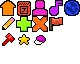
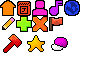
added visible badges

diff --git a/templates/base.html b/templates/base.html
@@ -20,6 +20,33 @@
 		</style>
 		
 		{% block head %}{% endblock %}
+		
+		{# global data #}
+		
+		{% 
+			set MODS = {
+				"abyssbox":     {'url': 'https://choptop84.github.io/abyssbox-app/'},
+				"beepbox":      {'url': 'https://www.beepbox.co'},
+				"cardboardbox": {'url': 'https://hidden-realm.github.io/cardboardbox/'},
+				"goldbox":      {'url': 'https://aurysystem.github.io/goldbox/'},
+				"jummbox":      {'url': 'https://jummb.us'},
+				"lemmbox":      {'url': 'https://lemmbox.github.io/'},
+				"modbox":       {'url': 'https://moddedbeepbox.github.io/3.0/'},
+				"pandorasbox":  {'url': 'https://paandorasbox.github.io/'},
+				"sandbox":      {'url': 'https://fillygroove.github.io/sandbox-3.1/'},
+				"slarmoosbox":  {'url': 'https://slarmoo.github.io/slarmoosbox/website/'},
+				"ultrabox":     {'url': 'https://ultraabox.github.io/'},
+				"wackybox":     {'url': 'https://bluecatgamer.github.io/Wackybox/'}
+			}
+		%}
+		
+		{% 
+			set BADGES = {
+				"moderator": {'name': 'Moderator', 'desc': 'a user who moderates and develops the site'},
+				"veteran":   {'name': 'Veteran',   'desc': 'a user who created an account before version 0.5'}
+			}
+		%}
+		
 	</head>
 	
 	<body>
@@ -27,7 +54,7 @@
 		<header>
 			<div class="left">
 				<h1>beepboard</h1>
-				<p>0.5.3</p>
+				<p>0.6.0</p>
 				<!--
 				<search>
 					<input type="text">

diff --git a/templates/view_user.html b/templates/view_user.html
@@ -17,9 +17,9 @@
 				<div class="desc">
 					<h2>
 						{{ user.username }}
-						{% for badge in user.badges | sort %}
-							<img class="badge {{badge}}" src="/assets/trans.png">
-						{% endfor %}
+						{% for badge in user.badges | sort %}<img class="badge {{badge}}"
+						                                          title="{{BADGES[badge].name}} ({{BADGES[badge].desc}})"
+						                                          src="/assets/trans.png">{% endfor %}
 						<br>
 						<small>{{ user.created.date }} · user #{{user.id}}</small>
 					</h2>
@@ -61,7 +61,6 @@
 							<div class="meta">
 								<p class="name">
 									<a href="/Song/{{song.id}}">{{ song.content.name }}</a>
-									<img class="" src="/assets/trans.png">
 								</p>
 								<div class="songtags">
 									{% if song.content.tags %}

diff --git a/templates/users.html b/templates/users.html
@@ -4,6 +4,7 @@
 
 {% block head %}
 	<link rel="stylesheet" href="/styles/users.css">
+	<link rel="stylesheet" href="/styles/badges.css">
 {% endblock %}
 
 {% block main %}
@@ -36,7 +37,12 @@
 			<div class="user">
 				<img class="pfp" src="{{ user.profile.pfp.url }}">
 				<div class="data">
-					<h3><a href="/User/{{ user.id }}">{{ user.username }}</a></h3>
+					<h3>
+						<a href="/User/{{ user.id }}">{{ user.username }}</a>
+						{% for badge in user.badges | sort %}<img class="badge {{badge}}"
+						                                          title="{{BADGES[badge].name}} ({{BADGES[badge].desc}})"
+						                                          src="/assets/trans.png">{% endfor %}
+					</h3>
 					<p>other info</p>
 				</div>
 				<div class="footer">

diff --git a/public/styles/badges.css b/public/styles/badges.css
@@ -1,0 +1,15 @@
+.badge {
+	width: 24px;
+	height: 24px;
+	background-color: #333;
+	transform: translateY(5px);
+	margin-top: -5px;
+}
+
+.badge.moderator {
+	background: url('/assets/icons.png') 0px -32px;
+}
+
+.badge.veteran {
+	background: url('/assets/icons.png') -48px -32px;
+}

diff --git a/app.py b/app.py
@@ -16,6 +16,7 @@ def bb_index():
 	with bb_connect_db() as conn:
 		db = conn.cursor()
 		myself = bb_filter_user(db, bb_get_userdata_by_token(db, request.cookies.get('token')))
+		trending = bb_get_trending(db)
 	return render_template("index.html", myself=myself)
 	
 @app.route('/welcome')
@@ -24,6 +25,7 @@ def bb_welcome():
 	with bb_connect_db() as conn:
 		db = conn.cursor()
 		myself = bb_filter_user(db, bb_get_userdata_by_token(db, request.cookies.get('token')))
+		trending = bb_get_trending(db)
 	return render_template("welcome.html", myself=myself)
 
 @app.route('/Songs')
@@ -61,6 +63,7 @@ def bb_list_songs():
 			query = ''
 		
 		myself = bb_filter_user(db, bb_get_userdata_by_token(db, request.cookies.get('token')))
+		trending = bb_get_trending(db)
 	
 	return render_template("songs.html",
 		myself=myself,
@@ -102,6 +105,7 @@ def bb_list_users():
 		
 		#filter users
 		myself = bb_filter_user(db, bb_get_userdata_by_token(db, request.cookies.get('token')))
+		trending = bb_get_trending(db)
 	
 	return render_template("users.html",
 		myself=myself,
@@ -120,6 +124,7 @@ def bb_under_construction():
 	with bb_connect_db() as conn:
 		db = conn.cursor()
 		myself = bb_filter_user(db, bb_get_userdata_by_token(db, request.cookies.get('token')))
+		trending = bb_get_trending(db)
 	return render_template("workinprogress.html", myself=myself)
 
 
@@ -129,6 +134,7 @@ def bb_account_login():
 	with bb_connect_db() as conn:
 		db = conn.cursor()
 		myself = bb_filter_user(db, bb_get_userdata_by_token(db, request.cookies.get('token')))
+		trending = bb_get_trending(db)
 	return render_template("login.html", myself=myself)
 	
 @app.route('/Account/register')

diff --git a/bb_api.py b/bb_api.py
@@ -194,9 +194,11 @@ def bb_api_songsubmit():
 def bb_api_searchsongs():
 	sort   = request.args.get('sort')
 	after  = request.args.get('after')
+	limit  = request.args.get('limit')
 	author = request.args.get('author')
 	tags   = request.args.get('tags')
 	query  = request.args.get('q')
+	
 	if not sort:
 		sort = 'newest'
 	if not after:
@@ -204,9 +206,15 @@ def bb_api_searchsongs():
 	if not after.isdigit():
 		after = '0'
 	
+	if not limit:
+		limit = "10"
+	limit = int(limit)
+	if limit > 100 or limit < 1:
+		return "invalid limit", 400
+	
 	with bb_connect_db() as conn:
 		db = conn.cursor()
-		songs = bb_search_songs(db, sort, after, author, tags, query)
+		songs = bb_search_songs(db, sort, after, author, tags, query, limit)
 	
 	if songs:
 		return songs
@@ -218,6 +226,7 @@ def bb_api_searchusers():
 	# set default values for parameters
 	sort  = request.args.get('sort')
 	after = request.args.get('after')
+	limit = request.args.get('limit')
 	query  = request.args.get('q')
 	if not sort:
 		sort = 'popular'
@@ -226,9 +235,15 @@ def bb_api_searchusers():
 	if not after.isdigit():
 		after = '0'
 	
+	if not limit:
+		limit = "10"
+	limit = int(limit)
+	if limit > 100 or limit < 1:
+		return "invalid limit", 400
+	
 	with bb_connect_db() as conn:
 		db = conn.cursor()
-		users = bb_search_users(db, sort, after, query)
+		users = bb_search_users(db, sort, after, query, limit)
 	
 	if users:
 		return users

diff --git a/bb_functions.py b/bb_functions.py
@@ -326,6 +326,13 @@ def bb_search_songs(db, sort, after = 0, author = None, tags = None, query = Non
 		clauses.update([
 			ClauseOrder({ValueColumnName('timestamp', 'S'): OrderEnum.DESC})
 		])
+	elif sort == "trending":
+		clauses.update([
+			ClauseOrder({ValueColumnName('timestamp', 'S'): OrderEnum.DESC,
+			             ValueColumnName('downloads', 'S'): OrderEnum.DESC,
+			             ValueColumnName('likes', 'S'):     OrderEnum.DESC,
+			             ValueColumnName('views', 'S'):     OrderEnum.DESC})
+		])
 	else:
 		return None
 	
@@ -375,6 +382,8 @@ def bb_search_users(db, sort, after, query, limit):
 		clauses.update([
 			ClauseOrder({ValueColumnName('timestamp'): OrderEnum.DESC})
 		])
+	else:
+		return None
 	
 	if query:
 		params['query_exp'] = f"%{query}%"
@@ -398,3 +407,7 @@ def bb_get_interaction(db, type, userid, songid):
 	q = db.execute("SELECT interactionid FROM interactions WHERE type = ? AND userid = ? AND songid = ?",
 					(type, userid, songid))
 	return q.fetchone()
+
+def bb_get_trending(db):
+	# get 3 most trending songs
+	return bb_search_songs(db, 'trending', 0, '', 3)

diff --git a/bb_songs.py b/bb_songs.py
@@ -16,6 +16,7 @@ def bb_song_view(id):
 	with bb_connect_db() as conn:
 		db = conn.cursor()
 		myself = bb_filter_user(db, bb_get_userdata_by_token(db, request.cookies.get('token')))
+		trending = bb_get_trending(db)
 		song = bb_filter_song(db, bb_get_songdata_by_id(db, id), ['author', 'comments'])
 		if myself and song:
 			has_interacted = bb_get_interaction(db, "like", myself["id"], song['id'])
@@ -36,7 +37,7 @@ def bb_song_submit():
 	with bb_connect_db() as conn:
 		db = conn.cursor()
 		myself = bb_filter_user(db, bb_get_userdata_by_token(db, request.cookies.get('token')))
-		
+		trending = bb_get_trending(db)
 		if not myself:
 			return redirect("/Account/login")
 		return render_template("submit_song.html", myself=myself)

diff --git a/bb_users.py b/bb_users.py
@@ -15,6 +15,7 @@ def bb_user_view(id):
 	with bb_connect_db() as conn:
 		db = conn.cursor()
 		myself = bb_filter_user(db, bb_get_userdata_by_token(db, request.cookies.get('token')))
+		trending = bb_get_trending(db)
 		user = bb_filter_user(db, bb_get_userdata_by_id(db, id))
 		
 		# update user profile views
@@ -35,6 +36,7 @@ def bb_profile_edit():
 	
 	with bb_connect_db() as conn:
 		db = conn.cursor()
+		trending = bb_get_trending(db)
 		myself = bb_filter_user(db, bb_get_userdata_by_token(db, request.cookies.get('token')))
 	
 	if not myself:
